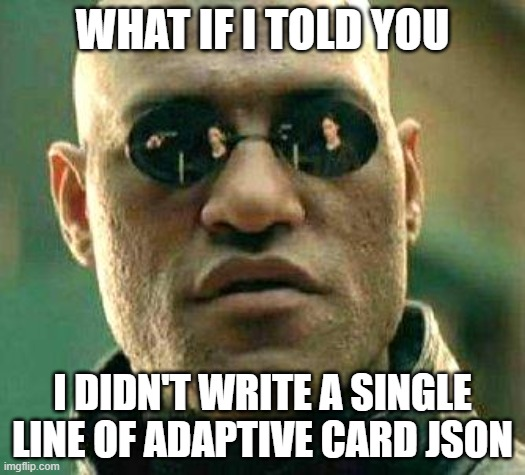
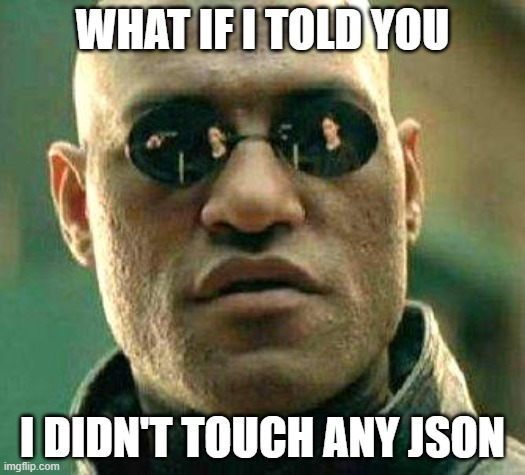
Added section for combining tool output

Changed region(s): [[0.0, 0.7663, 1.0, 0.9726]]

diff --git a/assets/css/jekyll-theme-chirpy.scss b/assets/css/jekyll-theme-chirpy.scss
@@ -927,3 +927,8 @@
   #sidebar .sidebar-bottom .fa-github::before {
     content: "\f09b" !important; /* GitHub icon */
   }
+
+/* === CAT Customization - Preview Image Object Fit Override - fixes thumbnail distortion on home page === */
+.preview-img img {
+    object-fit: initial;
+}

diff --git a/_posts/2025-12-18-adaptive-card-generation.md b/_posts/2025-12-18-adaptive-card-generation.md
@@ -1,16 +1,29 @@
 ---
 layout: post
-title: "Top Tip - Adaptive Card Generation"
+title: "{Brace Yourself} - or Let Copilot Do It! Zero-100 with Adaptive Cards"
 date: 2025-12-18
 categories: [copilot-studio, user-experience]
 tags: [adaptive-cards, best-practices, tips]
-description:  Using the test pane to ease Adaptive Card creation, and beyond!
+description:  Stop hand cranking Adaptive Card JSON - put your effort into avoiding it!
 author: daveburman-msft
 image:
   path: /assets/posts/adaptive-card-generation/header.png
-  alt: "A developer who's happily creating Adaptive Cards"
+  alt: "Low-code is just perspective; it all depends who's writing it..."
   no_bg: true
 ---
+
+I've been on a bit of a journey with Adaptive Cards recently. Apart from creating a few basic forms, and a few tweaks to existing cards here and there, I've not really had a need to get too deep into them. They do seem to be quite a hit with users though; anyone who's attended one of our [bootcamp events](https://microsoft.github.io/powercat/programs/architecture-bootcamp.html) will have seen the signup form we use to provision environments on the first day, and there's generally a lot of positive comments about the experience.
+
+Having taken the plunge though, I quickly went from:
+- building cards with the WYSIWYG editor, to
+- hand writing JSON, to 
+- getting JSON written for me, to
+- getting JSON written on the fly and presented to users automatically, to
+- getting JSON written on the fly and presented to users automatically with responses interpreted in a meaningful way without writing so much as a curly brace
+
+Interested? Let's have a look at doing some amazing things with(out writing) JSON!
+
+## Huh? Aren't We All About Conversational Experiences Now? ##
 
 Conversational interfaces are great, but sometimes you just can't beat an old fashioned form.  If you need to collect and validate multiple pieces of information at the same time, there's a lot to be said for putting an Adaptive Card in front of a user.
 
@@ -20,7 +33,7 @@ But if you're anything like me, a lot of what's said at that point can't be repe
 
 The answer to my JSON woes was literally right in front of me the whole time; the Test Pane.  Perhaps I'm a little late to the party with this, but I've recently realised how good Copilot Studio itself is at providing a starting point.
 
-As an example, let's see what the test pane makes of the following:
+As an example, let's see what the Test Pane makes of the following:
 
 ```
 Write JSON for an Adaptive Card which prompts the user to enter dietary preferences.
@@ -52,9 +65,77 @@ Even the output variables are configured for me for use within a topic, and it l
 
 ## Did You Really Say Copy/Paste?! ##
 
-There's probably a good portion of you who are already doing this.  In this new and emerging world, it's sometimes tough to know what's mind-blowing and what's common knowledge.  I was encouraged to push this approach a bit further, so if you've already had your mind blown,  I suggest you take a seat as this is about to get next level.
+There's probably a good portion of you who are already doing this.  In this new and emerging world, it's sometimes tough to know what's mind-blowing and what's common knowledge. With that in mind, I was pretty sure I could do better.  I mean, the JSON generated by the LLM is just a string right? And we can pass strings around, so surely this can happen on the fly? But would that just be a cool flex, or is there a real need?  Let's go with cool flex for now.
 
-## Don't Make Me Think ##
+## Make it Look Pretty ##
+
+Let's think about presenting information retrieved from tools.  Copilot Studio offers up the ability to present [tool results as an adaptive card](https://learn.microsoft.com/en-us/microsoft-copilot-studio/advanced-plugin-actions#completion), but what about when we want to combine information from multiple tools?
+
+For example, say I have an agent who helps me plan journeys. The agent has tools to find route information, which may vary wildly depending on the mode of transport:
+- For long car journeys, I'd like to know about service stations along the way
+- For rail journeys, I need to know where to change trains, how long each leg will take, and where each train stops
+- For plane journeys, I want to know what flight times are available
+
+The agent also has a tool to retrieve weather information at a particular location, and I'd like to combine that with the information above in a nice looking snapshot:
+
+![Drive Journey](/assets/posts/adaptive-card-generation/drive-journey.png){: .shadow w="520" h="994"}
+
+Notice the journey info and the weather info have all been combined into a single digestible card which looks attractive and displays all of the pertinent information.
+
+However, if I ask for a different route, I get different information for a different mode of transport, and the weather information is not included:
+
+![Train Journey](/assets/posts/adaptive-card-generation/train-journey.png){: .shadow w="487" h="764"}
+
+So how does it work? For this example, I wanted to rely on generative orchestration as much as possible, so I implemented a topic which fires on OnGeneratedResponse. This gives me access to System.Response.FormattedText (the message about to be sent to the user) and allows me to decide whether I want to intercept and change the message.
+
+The heart of what's going on is a Custom Prompt within that topic, which takes a couple of inputs:
+- The message about to be sent to the user
+- An object representing a collection of scenario/form description pairs (I initialized this as a global variable in Conversation Start).  For example:
+
+```json
+  [
+    {
+      "scenario":"best suited for long journies by car", 
+      "formdescription":"Search https://www.pexels.com/search/{insert destination here} for a picture related to the destination (if one can't be found, don't output a picture). Open the form with the picture. Display the origin and destination as text fields, a summary of the weather at the destination, estimated driving time and a list of suggested stops.  Within each stop, display a list of shops along side an an appropriate emoji related to the business. Decorate heavily with other appropriate emojis"
+    },
+    {
+      "scenario":"best suited for planning a journey by plane",
+      "formdescription":"Open the form with a picture of a plane. Display the origin and destination, the estimated journey time and a list of landmarks"
+    },
+    {
+      "scenario":"best suited for train travel", 
+      "formdescription":"Open the form with a picture of a busy train platform. Display the origin at the start of the form, each separate train journey as a section, including stops, and then close the form with the name of the destination, a picture of the destination, and weather information about the destination"
+    }
+  ]
+```
+The prompt looks like this.  Essentially it just says "figure out the best form description to use, and use it to generate the JSON":
+
+![Custom Prompt 1](/assets/posts/adaptive-card-generation/custom-prompt-1.png){: .shadow w="1665" h="989"}
+
+When the user asks the agent to find a route between two places, the following steps occur:
+1. The orchestrator recognises it needs to call the tools for finding route information and weather information and executes both
+2. As the response is formed, the OnGeneratedResponse event fires and triggers my topic
+3. My topic passes the response and scenario/formdescription object into the custom prompt
+4. The custom prompt figures out whether it has a scenario that matches the response, and if so, generates appropriate Adaptive Card JSON
+5. The output is passed back to the topic, which checks if a card was generated, and if so, pushes the JSON into an Adaptive Card node:
+
+Below, I'm branching the topic, dependent on whether a form was generated by the prompt or not...
+
+![Prompt Branch](/assets/posts/adaptive-card-generation/prompt-branch.png){: .shadow w="829" h="762"}
+
+...and then pushing the output JSON into a Message node which displays an Adaptive Card (message rather than "Ask with adaptive card", since I'm not asking for a response and don't want to block topic execution).
+
+![Prompt Branch](/assets/posts/adaptive-card-generation/adaptive-card-nonblocking.png){: .shadow w="1158" h="1015"}
+
+## Full Disclosure ##
+
+Now I have to make a pretty big disclaimer here; this works well as screenshots, but in reality, depending on how this is consumed, the user experience is less than ideal. In channels where message streaming is supported (like the Test Pane), the original formatted response is partially sent to the user before the topic kicks in to reformat. This could be avoided by implementing a more controlled flow; i.e. if the topic initiated the calls to the tools and didn't rely on the orchestrator quite as much. I'll demonstrate that in the next example.
+
+So we've got to a point where Adaptive Card JSON is generated on the fly, and dynamically; fundementally different form content is displayed determined by natural language descriptions of forms I defined in a global variable.  That's pretty useful, and certainly beats figuring out where I missed a comma or curly brace in handwritten JSON, but I still feel like there's more to be done. How about trying to understand a user's response to an Adaptive Card on the fly?
+
+## Don't Make Me Think... ##
+
+[(...worth a read if you haven't)](https://en.wikipedia.org/wiki/Don%27t_Make_Me_Think)
 
 Anyone that's worked with digital forms knows dynamic forms are almost always a requirement.  Many digital transformation projects start with digitizing existing paper forms, and realise they can be smarter:
   - "Why do I have to fill in both my billing address and shipping address when they're the same"
@@ -63,7 +144,7 @@ Anyone that's worked with digital forms knows dynamic forms are almost always a 
 
 The reality is users ~~want~~ **expect** smart solutions which are targeted towards their needs, and if you're putting a form in front of a user to collect information, you **need** to do so in an intelligent way.
 
-So what's that got to do with Adaptive Cards?  Well in a situation where you're collecting and validating multiple pieces of information from a user, it needs to be targeted.  It needs to make sense to the user, and needs to be friction free.
+So what's that got to do with Adaptive Cards?  Well in a situation where you're collecting and validating multiple pieces of information from a user, it needs to be targeted.  It needs to make sense to the user, and needs to be friction free.  Let's generate some forms that make sense to users based on their intent, and use their input to generate meaningful responses.
 
 ## Context Specific Adaptive Cards ##
 
@@ -93,25 +174,23 @@ That information can be used to generate a tailored itinerary based on the user'
 
 ![Itinerary](/assets/posts/adaptive-card-generation/itinerary.png){: .shadow w="457" h="622"}
 
-Cool huh?!
+Cool huh?! But most importantly...
 
-## 195 Countries in the World - That's A Lot Of Copy/Paste ##
+![No JSON](/assets/posts/adaptive-card-generation/nocode.jpg){: .shadow w="525" h="475"}
 
-Is it?
+Everything was done on the fly; both the form generation and the interpretation of the user's response to it.
 
-![No code](/assets/posts/adaptive-card-generation/nocode.jpg){: .shadow w="443" h="710"}
+## Bringing It All Together ##
 
-I started this post talking about how LLMs are quite adept at writing code for Adaptive Cards, and it's actually quite straight forward to do this on the fly.
-
-First I dropped my instructions into a custom prompt given the responsibility of creating the Adaptive Card JSON, which just takes the country as an input:
+This time I put more comprehensive instructions into a custom prompt, given the responsibility of creating the Adaptive Card JSON, which just takes the country as an input:
 
 ![Generate card prompt](/assets/posts/adaptive-card-generation/prompt-generatecard.png){: .shadow w="1867" h="923"}
 
-Secondly, I created another prompt to create the tourist profile.  This one takes inputs for the country, the original Adaptive Card, and the user's response to the submission.  I passed the original card JSON in as I wanted to ensure the prompt could infer dislikes as well as likes, and the country to ensure the prompt had as much information available as possible to make decisions about the user's needs.
+Then I created another prompt to create the tourist profile.  This one takes inputs for the country, the original Adaptive Card, and the user's response to the submission.  I passed the original card JSON in as I wanted to ensure the prompt could infer dislikes as well as likes, and the country to ensure the prompt had as much information available as possible to make decisions about the user's needs.
 
 ![Generate tourist profile prompt](/assets/posts/adaptive-card-generation/prompt-generateprofile.png){: .shadow w="1880" h="927"}
 
-I wrapped each of these in Agent flows so I had full control of the variables being passed around (this isn't the only option available), and put the whole journey inside a topic.
+I put the whole journey inside a topic, triggered when the user wants to arrange a trip to a country.
 
 The topic required a little manipulation.  Essentially the flow was:
   - Call the card generation flow
@@ -128,10 +207,16 @@ This is all fairly straight forward except for the dynamic nature of the Adaptiv
 
 ![Constructing a variable for the prompt](/assets/posts/adaptive-card-generation/call-tourist-profile.png){: .shadow w="732" h="524"}
 
-...and after that, it was simply a case of passing the profile into a generative answers node to generate the final itinerary:
+...and after that, it was simply a case of passing the profile into a generative answers node (grounded in public websites) to generate the final itinerary:
 
 ![Generative answer node for itinerary](/assets/posts/adaptive-card-generation/itinerary-node.png){: .shadow w="655" h="802"}
 
 ## Summary ##
 
-So there we go, dynamically intelligent forms driving conversational intelligence without a single line of JSON.  Adaptive Cards are great in certain situations, and creating them is very straightforward when Copilot's around!
+So there we go, dynamic forms driving conversational intelligence without a single line of JSON. Adaptive Cards are great in certain situations, and creating them can be very straightforward with Copilot doing the heavy lifting!
+
+---
+
+*What are you doing with Adaptive Cards? What could you be doing with Adaptive Cards? Let us know below!*
+
+---
